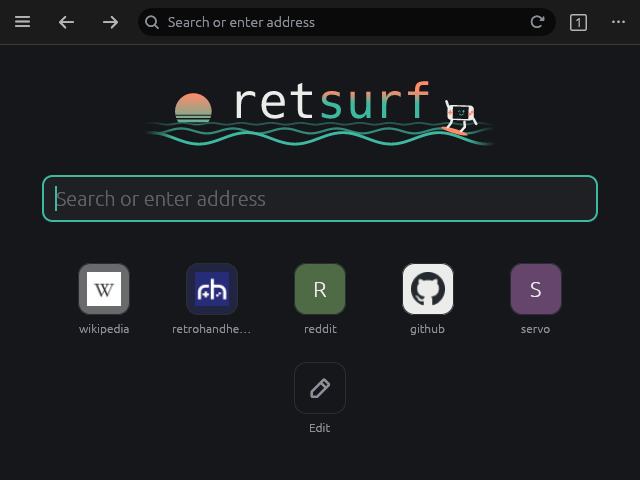
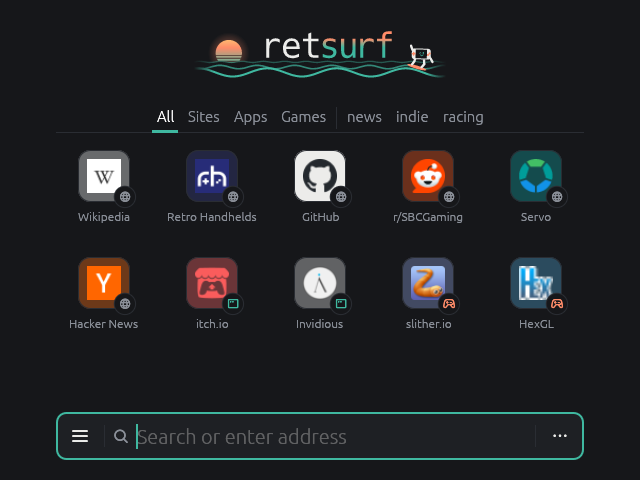
feat(site): start page screenshot

diff --git a/index.html b/index.html
@@ -133,7 +133,7 @@
     <section id="screens" class="wrap">
       <h2>Screenshots</h2>
       <div class="shots">
-        <figure><img src="images/retsurf-start-page.png" alt="The start page with a search field and a speed dial" width="640" height="480" loading="lazy"><figcaption>Start page</figcaption></figure>
+        <figure><img src="images/retsurf-start-page.png" alt="The start page: bookmarks as site, app and game tiles under filter tabs, the search field at the bottom" width="640" height="480" loading="lazy"><figcaption>Start page</figcaption></figure>
         <figure><img src="images/retsurf-keyboard.png" alt="The on-screen keyboard under the search field" width="640" height="480" loading="lazy"><figcaption>On-screen keyboard</figcaption></figure>
         <figure><img src="images/retsurf-quick-access.png" alt="Quick Access at the right edge over Hacker News" width="640" height="480" loading="lazy"><figcaption>Quick Access</figcaption></figure>
         <figure><img src="images/retsurf-input-map.png" alt="The input map editor" width="640" height="480" loading="lazy"><figcaption>Input maps</figcaption></figure>
